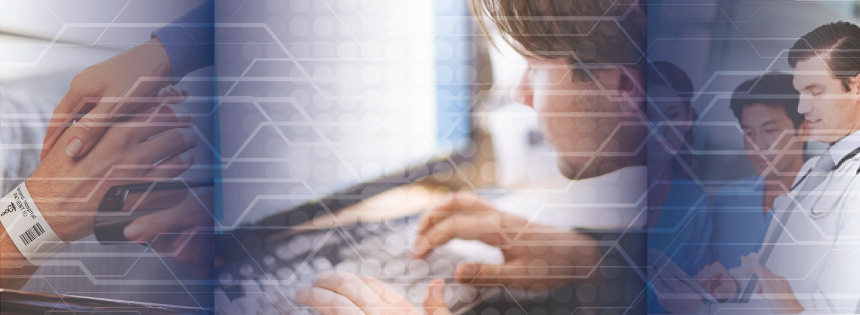
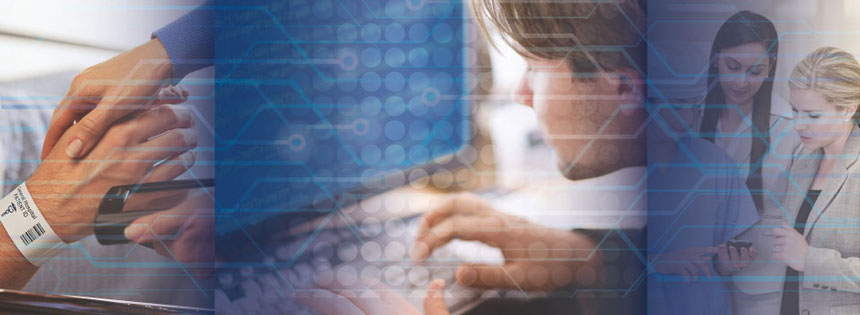
Updated header graphic and remove download link

diff --git a/himt.html b/himt.html
@@ -208,8 +208,10 @@
                 	<h1>Graphics</h1>
                 </div>
                 <p><img class="img-polaroid" src="images/himt/header.jpg" width="860" height="315" alt="Header Image" border="0" /></p>
-                <p><i class="icon-download-alt"></i> Download:<br />
+                <!--
+<p><i class="icon-download-alt"></i> Download:<br />
                    <a href="downloads/himt/header.eps">Header EPS</a></p>
+-->
             </section>
             
             <!-- Imagery -->
